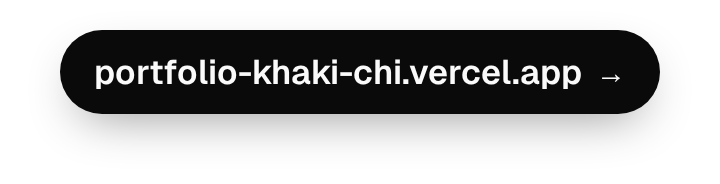
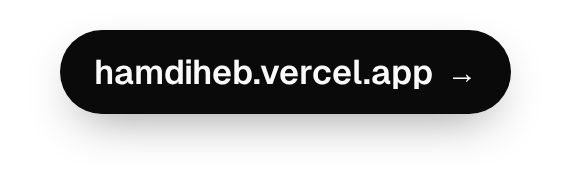
Updated the footer

Changed region(s): [[0.0595, 0.163, 0.8634, 0.625], [0.8336, 0.163, 0.9229, 0.625]]

diff --git a/front/src/components/footer/Footer.tsx b/front/src/components/footer/Footer.tsx
@@ -6,34 +6,8 @@ export function Footer() {
   const year = new Date().getFullYear()
 
   return (
-    <footer id="footer" className="border-t px-4 pt-10 pb-6 text-left sm:pb-8">
+    <footer id="footer" className="px-4 pt-10 pb-6 text-left sm:pb-8">
       <div className="mx-auto max-w-6xl">
-        <div className="flex flex-col gap-6 sm:flex-row sm:items-center sm:justify-between">
-          <div>
-            <p className="m-0! text-lg font-bold tracking-tight text-foreground">Iheb Hamdi</p>
-            <p className="mt-1! text-sm text-muted-foreground">Full-Stack Engineer · Barcelona, Spain</p>
-          </div>
-
-          <ul className="m-0 flex list-none items-center gap-2 p-0">
-            {SOCIAL_LINKS.map(({ label, href, icon: Icon }) => {
-              const external = href.startsWith('http')
-              return (
-                <li key={label}>
-                  <a
-                    href={href}
-                    {...(external ? { target: '_blank', rel: 'noreferrer' } : {})}
-                    aria-label={external ? `${label} (opens in a new tab)` : label}
-                    title={label}
-                    className="flex h-11 w-11 items-center justify-center rounded-full border text-foreground transition-colors hover:bg-foreground hover:text-background"
-                  >
-                    <Icon className="h-4 w-4" aria-hidden="true" />
-                  </a>
-                </li>
-              )
-            })}
-          </ul>
-        </div>
-
         {/* Right padding keeps "Back to top" clear of the fixed chat launcher. */}
         <div className="mt-8 flex items-center justify-between gap-4 border-t pt-6 pr-16 text-xs text-muted-foreground sm:pr-20">
           <p className="m-0!">© {year} Iheb Hamdi</p>
@@ -42,7 +16,10 @@ export function Footer() {
             className="group -my-2 inline-flex min-h-10 items-center gap-1.5 font-medium transition-colors hover:text-foreground"
           >
             Back to top
-            <ArrowUp className="h-3.5 w-3.5 transition-transform group-hover:-translate-y-0.5" aria-hidden="true" />
+            <ArrowUp
+              className="h-3.5 w-3.5 transition-transform group-hover:-translate-y-0.5"
+              aria-hidden="true"
+            />
           </a>
         </div>
       </div>

diff --git a/brag-output/work/layers.py b/brag-output/work/layers.py
@@ -31,7 +31,7 @@ CURSOR = """<svg xmlns="http://www.w3.org/2000/svg" width="64" height="88" viewB
 END = {
     "end_name": '<div style="font-size:200px;font-weight:900;letter-spacing:-0.045em;line-height:.92;color:#0a0a0a;padding:10px 20px">Iheb Hamdi</div>',
     "end_role": '<div style="font-size:46px;font-weight:600;letter-spacing:-0.015em;color:#0a0a0a;padding:10px 20px">Full-Stack Engineer <span style="color:#a3a3a3">·</span> Barcelona, Spain</div>',
-    "end_url": '<div style="display:inline-flex;align-items:center;gap:14px;margin:30px 60px 70px;padding:20px 34px;border-radius:999px;background:#0a0a0a;color:#fafafa;font-size:34px;font-weight:600;box-shadow:0 18px 50px -18px rgba(0,0,0,.45)">portfolio-khaki-chi.vercel.app <span style="font-size:30px">→</span></div>',
+    "end_url": '<div style="display:inline-flex;align-items:center;gap:14px;margin:30px 60px 70px;padding:20px 34px;border-radius:999px;background:#0a0a0a;color:#fafafa;font-size:34px;font-weight:600;box-shadow:0 18px 50px -18px rgba(0,0,0,.45)">hamdiheb.vercel.app <span style="font-size:30px">→</span></div>',
     "end_sub": '<div style="font-size:30px;font-weight:500;color:#737373;padding:10px 20px">Ask the AI assistant · see the skyline · say hello</div>',
 }
 

diff --git a/brag-output/work/compose.py b/brag-output/work/compose.py
@@ -67,7 +67,7 @@ CAPS = [
     ("cap1", 1.6, 4.0, "tr"),
     ("cap2", 5.9, 12.1, "tc"),
     ("cap3", 13.9, 20.8, "bl"),
-    ("cap4", 22.9, 27.75, "bl"),
+    ("cap4", 22.9, 27.75, "tr"),
 ]
 
 _cache = {}
